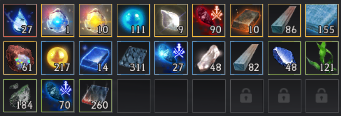
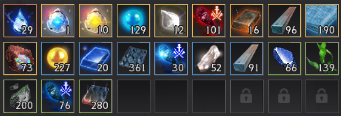
DFDFD

diff --git a/black.html b/black.html
@@ -629,24 +629,24 @@
         <div id="모은재료_파템재료"><!-- 빈칸도 만들고, 세로로 나열됨 -->
           <div id="파템재료_일퀘개수" class="d-inline-block 재료높이" style="vertical-align: top;">
             <div><div>필<br>요<br>수</div><div>보<br>유<br>수</div><div>남<br>은<br>수</div><div>일<br><br>get</div><div>일<br>퀘<br>수</div></div>
-            <div><button>42</button><button style="background-color: chartreuse;"  title="심해의눈물">27</button><button></button><button>1</button><button style="background-color: chartreuse;"></button></div><!-- 심해의 눈물 1-->
-            <div><button>30</button><button style="background-color: chartreuse;"  title="화려한 진주 결정">9</button><button></button><button>물교</button><button style="background-color: chartreuse;"></button></div><!-- 화려한 진주 결정-->
-            <div><button></button><button style="background-color: chartreuse;"    title="콕스유물 전투">90</button><button></button><button>3</button><button style="background-color: chartreuse;"></button></div><!-- 콕스유물 전투 -->
-            <div><button>30</button><button style="background-color: chartreuse;"  title="화려한 암염 주괴">12</button><button></button><button>물교</button><button style="background-color: chartreuse;"></button></div><!-- 화려한 암염 주괴-->
-            <div><button>170</button><button style="background-color: chartreuse;" title="짙은파도빛규격각">86</button><button></button><button>3</button><button style="background-color: chartreuse;"></button></div><!--짙은 파도빛이 감도는 규격 각목 3 -->
+            <div><button>42</button><button style="background-color: chartreuse;"  title="심해의눈물">29</button><button></button><button>1</button><button style="background-color: chartreuse;"></button></div><!-- 심해의 눈물 1-->
+            <div><button>30</button><button style="background-color: chartreuse;"  title="화려한 진주 결정">12</button><button></button><button>물교</button><button style="background-color: chartreuse;"></button></div><!-- 화려한 진주 결정-->
+            <div><button></button><button style="background-color: chartreuse;"    title="콕스유물 전투">101</button><button></button><button>3</button><button style="background-color: chartreuse;"></button></div><!-- 콕스유물 전투 -->
+            <div><button>30</button><button style="background-color: chartreuse;"  title="화려한 암염 주괴">16</button><button></button><button>물교</button><button style="background-color: chartreuse;"></button></div><!-- 화려한 암염 주괴-->
+            <div><button>170</button><button style="background-color: chartreuse;" title="짙은파도빛규격각">96</button><button></button><button>3</button><button style="background-color: chartreuse;"></button></div><!--짙은 파도빛이 감도는 규격 각목 3 -->
 
-            <div><button>180</button><button style="background-color: chartreuse;" title="달의핏줄이새겨진아마포">155</button><button></button><button>3</button><button style="background-color: chartreuse;"></button></div><!-- 달의 핏줄이 새겨진 아마포 3-->
-            <div><button></button><button style="background-color: chartreuse;"    title="홍조빛 해저 단괴">63</button><button></button><button>2</button><button style="background-color: chartreuse;"></button></div><!-- 홍조빛 해저 단괴-->
-            <div><button></button><button style="background-color: chartreuse;"    title="빛나는코발트주괴">14</button><button></button><button>물교</button><button style="background-color: chartreuse;"></button></div><!--빛나는 코발트주괴 -->
-            <div><button></button><button style="background-color: chartreuse;"    title="달의비늘이새겨진합판">311</button><button></button><button>10</button><button style="background-color: chartreuse;"></button></div><!-- 달의 비늘이 새겨진 합판-->
-            <div><button></button><button style="background-color: chartreuse;"    title="콕스유물 상급">28</button><button></button><button>1</button><button style="background-color: chartreuse;"></button></div><!-- 콕스유물 상급-->
-            <div><button></button><button style="background-color: chartreuse;"    title="순수한 진주 결정">50</button><button></button><button>2</button><button style="background-color: chartreuse;"></button></div><!-- 순수한 진주결정-->
-            <div><button></button><button style="background-color: chartreuse;"    title="파도빛이 감도는 규격 각목">82</button><button></button><button>3</button><button style="background-color: chartreuse;"></button></div><!--파도빛이 감도는 규격 각목 -->
-            <div><button></button><button style="background-color: chartreuse;"    title="대양의 견고한 현철">48</button><button></button><button>물교</button><button style="background-color: chartreuse;"></button></div><!-- 대양의 견고한 현철-->
-            <div><button></button><button style="background-color: chartreuse;"    title="심해초 줄기">121</button><button></button><button>4</button><button style="background-color: chartreuse;"></button></div><!-- 심해초 줄기-->
-            <div><button></button><button style="background-color: chartreuse;"    title="순수한 암초 조각">192</button><button></button><button>8</button><button style="background-color: chartreuse;"></button></div><!-- 순수한 암초조각-->
-            <div><button></button><button style="background-color: chartreuse;"    title="콕스유물 하급">70</button><button></button><button>3</button><button style="background-color: chartreuse;"></button></div><!-- 콕스유물 하급-->
-            <div><button></button><button style="background-color: chartreuse;"    title="강화된 섬나무 증착합판">270</button><button></button><button>10</button><button style="background-color: chartreuse;"></button></div><!--강화된 섬나무 증착합판 -->
+            <div><button>180</button><button style="background-color: chartreuse;" title="달의핏줄이새겨진아마포">190</button><button></button><button>3</button><button style="background-color: chartreuse;"></button></div><!-- 달의 핏줄이 새겨진 아마포 3-->
+            <div><button></button><button style="background-color: chartreuse;"    title="홍조빛 해저 단괴">73</button><button></button><button>2</button><button style="background-color: chartreuse;"></button></div><!-- 홍조빛 해저 단괴-->
+            <div><button></button><button style="background-color: chartreuse;"    title="빛나는코발트주괴">20</button><button></button><button>물교</button><button style="background-color: chartreuse;"></button></div><!--빛나는 코발트주괴 -->
+            <div><button></button><button style="background-color: chartreuse;"    title="달의비늘이새겨진합판">361</button><button></button><button>10</button><button style="background-color: chartreuse;"></button></div><!-- 달의 비늘이 새겨진 합판-->
+            <div><button></button><button style="background-color: chartreuse;"    title="콕스유물 상급">30</button><button></button><button>1</button><button style="background-color: chartreuse;"></button></div><!-- 콕스유물 상급-->
+            <div><button></button><button style="background-color: chartreuse;"    title="순수한 진주 결정">52</button><button></button><button>2</button><button style="background-color: chartreuse;"></button></div><!-- 순수한 진주결정-->
+            <div><button></button><button style="background-color: chartreuse;"    title="파도빛이 감도는 규격 각목">91</button><button></button><button>3</button><button style="background-color: chartreuse;"></button></div><!--파도빛이 감도는 규격 각목 -->
+            <div><button></button><button style="background-color: chartreuse;"    title="대양의 견고한 현철">66</button><button></button><button>물교</button><button style="background-color: chartreuse;"></button></div><!-- 대양의 견고한 현철-->
+            <div><button></button><button style="background-color: chartreuse;"    title="심해초 줄기">139</button><button></button><button>4</button><button style="background-color: chartreuse;"></button></div><!-- 심해초 줄기-->
+            <div><button></button><button style="background-color: chartreuse;"    title="순수한 암초 조각">200</button><button></button><button>8</button><button style="background-color: chartreuse;"></button></div><!-- 순수한 암초조각-->
+            <div><button></button><button style="background-color: chartreuse;"    title="콕스유물 하급">76</button><button></button><button>3</button><button style="background-color: chartreuse;"></button></div><!-- 콕스유물 하급-->
+            <div><button></button><button style="background-color: chartreuse;"    title="강화된 섬나무 증착합판">280</button><button></button><button>10</button><button style="background-color: chartreuse;"></button></div><!--강화된 섬나무 증착합판 -->
           </div>
           
           <div id="파템재료_재료아이콘" class="d-inline-block 재료높이" style="vertical-align: top;">
@@ -793,7 +793,7 @@
               <h6> 2 [일일]오킬루아 큐리오 산호조각 10개와 교환</h6><!-- 홍조빛 해저 단괴 -->
               <h6><b><i><u style="color:blueviolet">부족!! 물교</u></i></b></h6><!-- 빛나는 코발트주괴 -->
               <h6>10 [일일]그믐달 길드의 <b><u>어린 칸디둠</u></b> 사냥꾼, 점진:함포200,흑장갑200</h6><!--  달의 비늘이 새겨진 합판-->
-              <h6></h6><!-- 콕스유물 상급 -->
+              <h6> 1 [일일]일리야 물물교환 퀘스트</h6><!-- 콕스유물 상급 -->
               <h6> 2 [일일]일리야 물물교환 퀘스트</h6><!-- 순수한 진주결정 -->
               <h6><b><i><u style="color:blueviolet">부족!!</u></i></b> 3 [일일]병사 어린해왕류</h6><!-- 파도빛이 감도는 규격 각목 -->
               <h6><b><i><u style="color:blueviolet">부족!! 물교</u></i></b></h6><!-- 대양의 견고한 현철 -->

diff --git a/portal/assets/js/black.js b/portal/assets/js/black.js
@@ -492,6 +492,7 @@ function 섬이름검색1() {
   if (구역02_남남서.find(element => element==text)) {result="구역02_남남서"};
   if (구역02_남서.find(element => element==text)) {result="구역02_남서"};
   if (구역02_서끝.find(element => element==text)) {result="구역02_서끝"};
+  if (구역02_서서남.find(element => element==text)) {result="구역02_서서남"};
   if (구역02_서북.find(element => element==text)) {result="구역02_서북"};
 
   if (구역03_북서.find(element => element==text)) {result="구역03_북동"};
@@ -549,6 +550,7 @@ function 섬이름검색2() {
   if (구역02_남남서.find(element => element==text)) {result="구역02_남남서"};
   if (구역02_남서.find(element => element==text)) {result="구역02_남서"};
   if (구역02_서끝.find(element => element==text)) {result="구역02_서끝"};
+  if (구역02_서서남.find(element => element==text)) {result="구역02_서서남"};
   if (구역02_서북.find(element => element==text)) {result="구역02_서북"};
 
   if (구역03_북서.find(element => element==text)) {result="구역03_북동"};
@@ -607,6 +609,7 @@ function 섬이름검색3() {
   if (구역02_남남서.find(element => element==text)) {result="구역02_남남서"};
   if (구역02_남서.find(element => element==text)) {result="구역02_남서"};
   if (구역02_서끝.find(element => element==text)) {result="구역02_서끝"};
+  if (구역02_서서남.find(element => element==text)) {result="구역02_서서남"};
   if (구역02_서북.find(element => element==text)) {result="구역02_서북"};
 
   if (구역03_북서.find(element => element==text)) {result="구역03_북동"};
@@ -664,6 +667,7 @@ function 섬이름검색4() {
   if (구역02_남남서.find(element => element==text)) {result="구역02_남남서"};
   if (구역02_남서.find(element => element==text)) {result="구역02_남서"};
   if (구역02_서끝.find(element => element==text)) {result="구역02_서끝"};
+  if (구역02_서서남.find(element => element==text)) {result="구역02_서서남"};
   if (구역02_서북.find(element => element==text)) {result="구역02_서북"};
 
   if (구역03_북서.find(element => element==text)) {result="구역03_북동"};
@@ -721,6 +725,7 @@ function 섬이름검색5() {
   if (구역02_남남서.find(element => element==text)) {result="구역02_남남서"};
   if (구역02_남서.find(element => element==text)) {result="구역02_남서"};
   if (구역02_서끝.find(element => element==text)) {result="구역02_서끝"};
+  if (구역02_서서남.find(element => element==text)) {result="구역02_서서남"};
   if (구역02_서북.find(element => element==text)) {result="구역02_서북"};
 
   if (구역03_북서.find(element => element==text)) {result="구역03_북동"};
